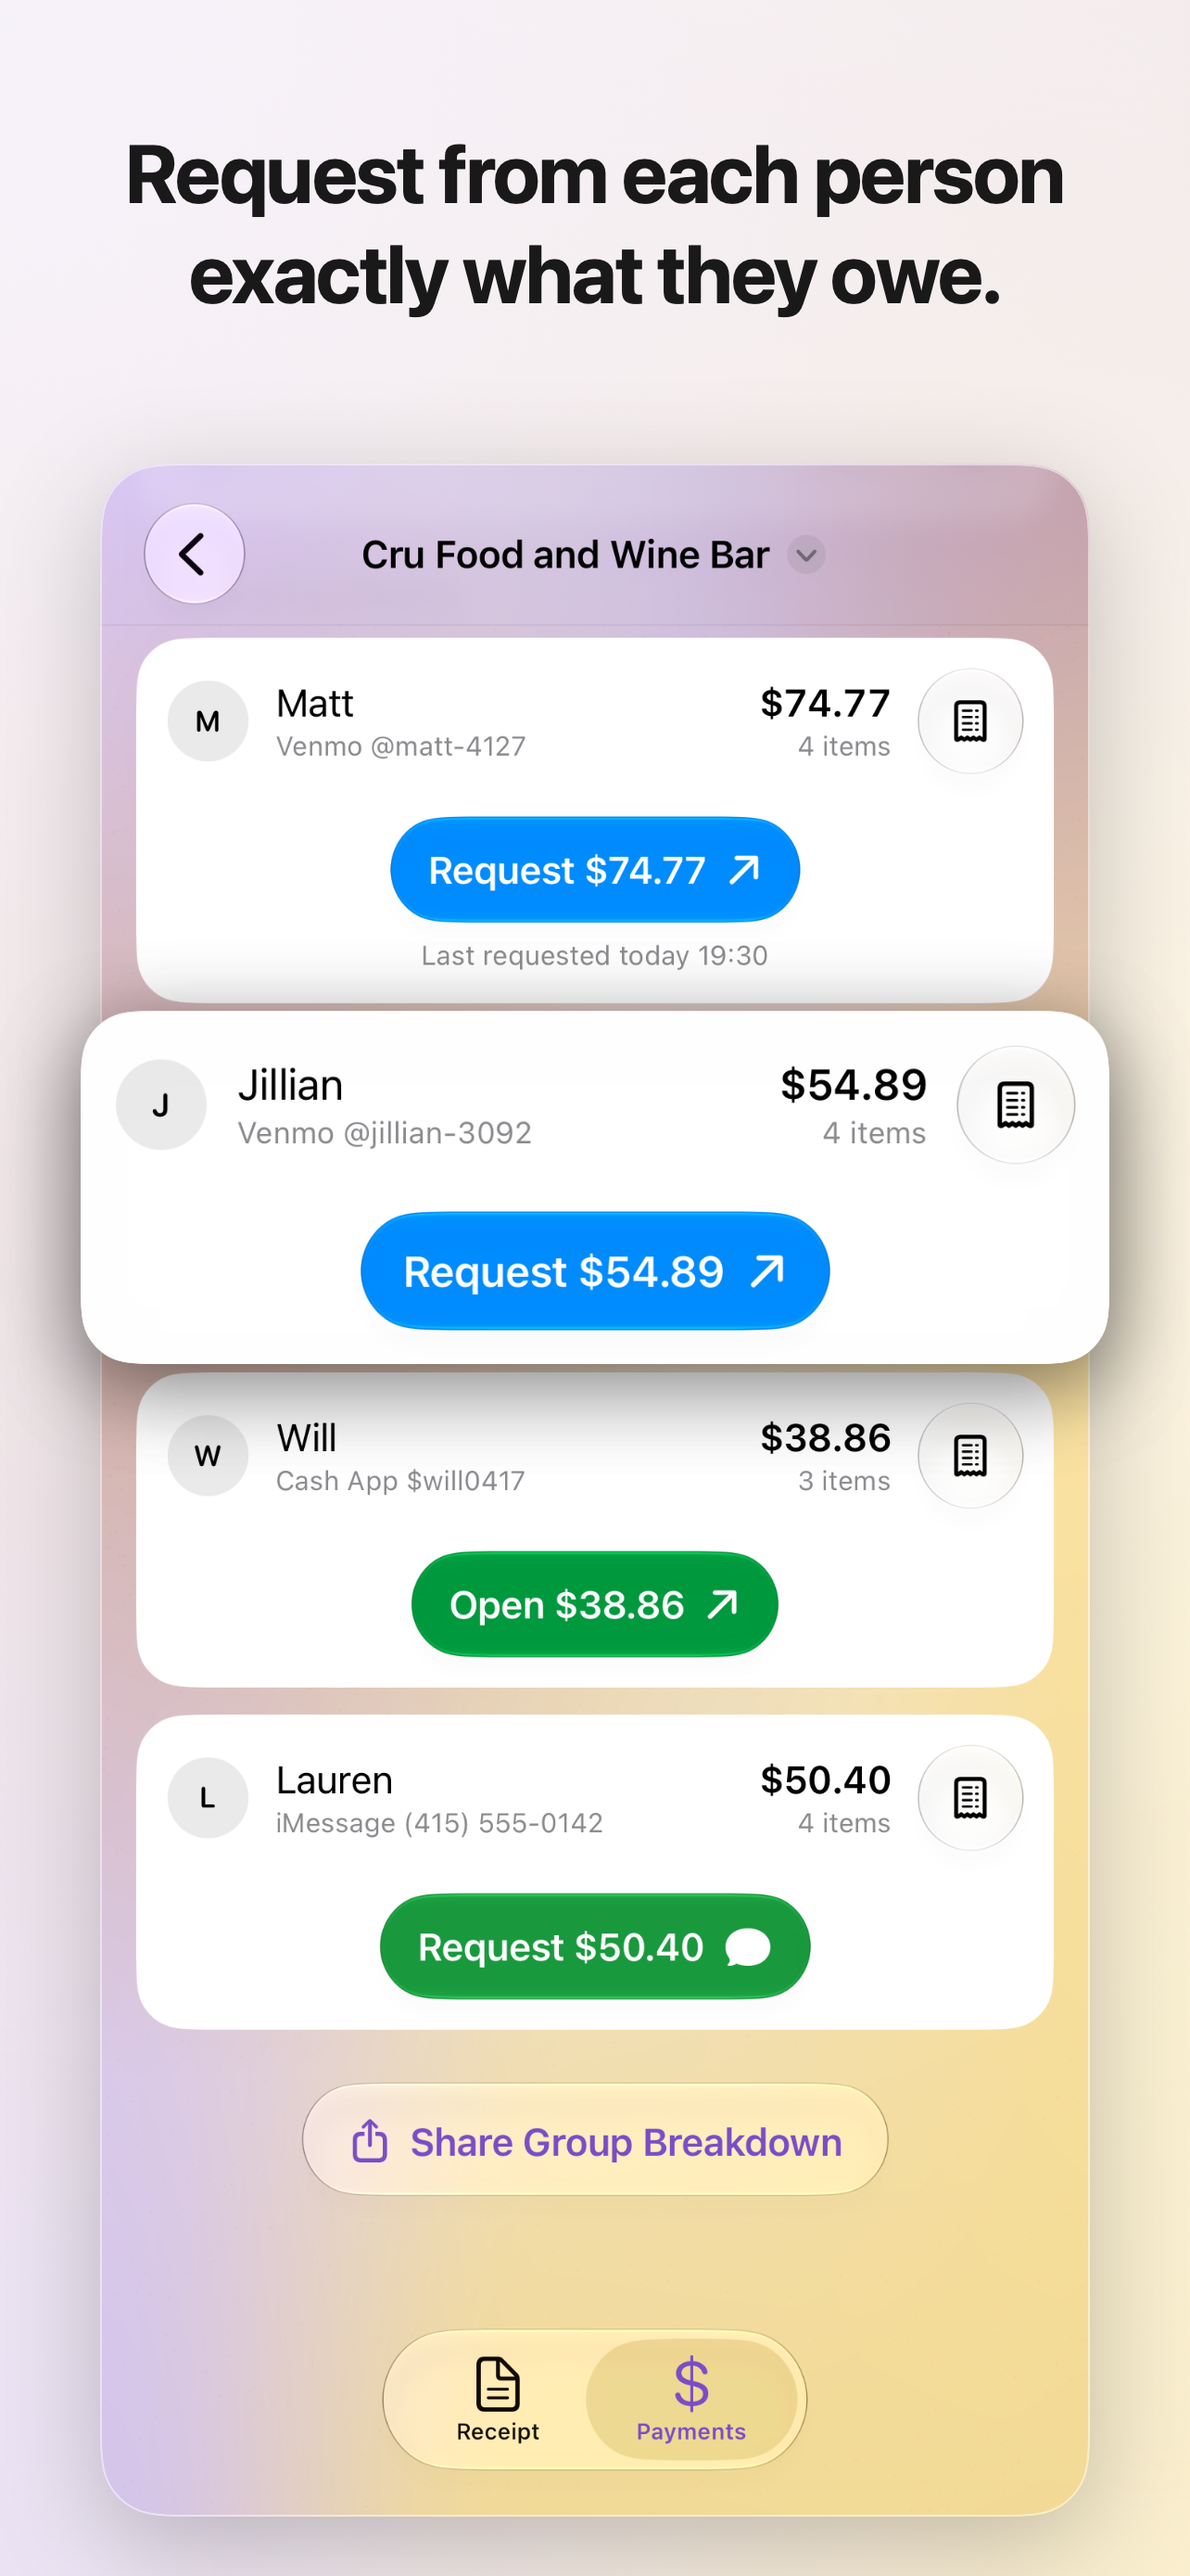
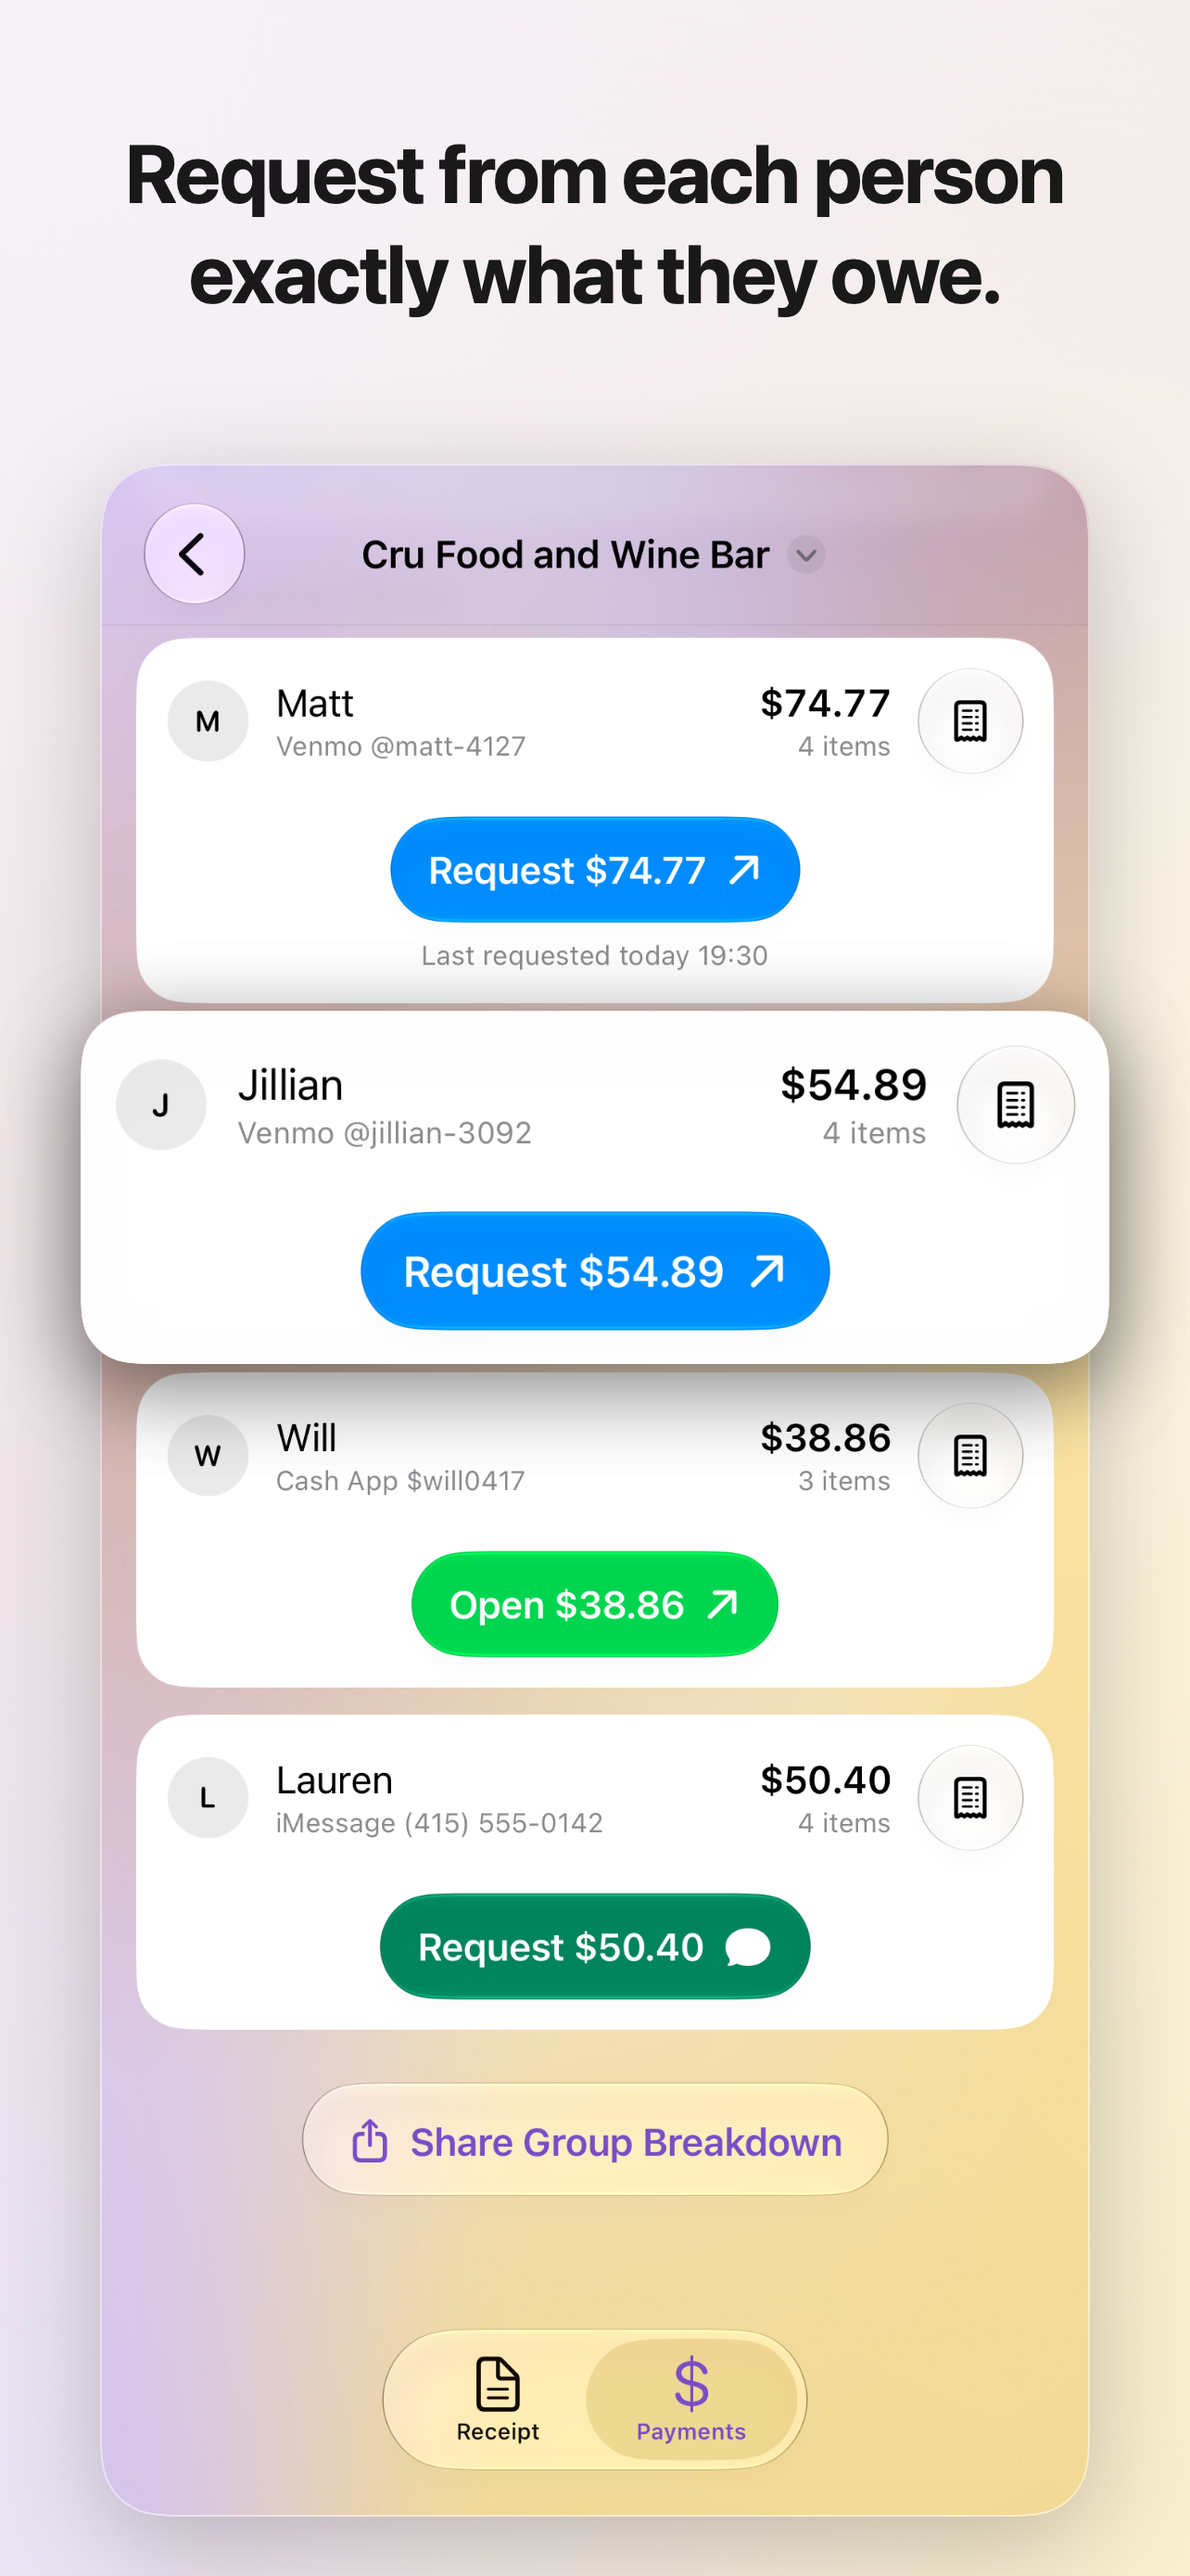
Items

Changed region(s): [[0.3115, 0.712, 0.6854, 0.7739], [0.3427, 0.5882, 0.6542, 0.6501]]

diff --git a/Tests/ReceiptSplitCalculatorTests.swift b/Tests/ReceiptSplitCalculatorTests.swift
@@ -18,6 +18,44 @@ final class ReceiptSplitCalculatorTests: XCTestCase {
     XCTAssertEqual(calculation.participantShares[0].items[0].fraction, 0.5)
   }
 
+  func testItemShareKeepsItemQuantity() throws {
+    let draft = makeDraft(
+      items: [ReceiptItem(description: "Taco", quantity: 3, lineTotal: 9)], total: 9)
+    let currentUserID = try XCTUnwrap(draft.participants.first?.id)
+    draft.items[0].participantIDs = [currentUserID]
+
+    let calculation = calculate(draft, .proportional)
+
+    XCTAssertEqual(calculation.participantShares[0].items[0].quantity, 3)
+  }
+
+  func testItemCountIncludesQuantities() throws {
+    let draft = makeDraft(
+      items: [
+        ReceiptItem(description: "Taco", quantity: 2, lineTotal: 6),
+        ReceiptItem(description: "Soda", quantity: 1, lineTotal: 2),
+      ],
+      total: 8)
+    let currentUserID = try XCTUnwrap(draft.participants.first?.id)
+    draft.items[0].participantIDs = [currentUserID]
+    draft.items[1].participantIDs = [currentUserID]
+
+    let calculation = calculate(draft, .proportional)
+
+    XCTAssertEqual(calculation.participantShares[0].itemCount, 3)
+  }
+
+  func testWeighedItemCountsAsOneItem() throws {
+    let draft = makeDraft(
+      items: [ReceiptItem(description: "Bananas", quantity: 1.42, lineTotal: 0.85)], total: 0.85)
+    let currentUserID = try XCTUnwrap(draft.participants.first?.id)
+    draft.items[0].participantIDs = [currentUserID]
+
+    let calculation = calculate(draft, .proportional)
+
+    XCTAssertEqual(calculation.participantShares[0].itemCount, 1)
+  }
+
   func testProportionalAdjustmentsFollowItemSubtotals() throws {
     let draft = try makeTwoPersonDraft()
 

diff --git a/Sources/Features/ReceiptFlow/ReceiptSplitCalculator.swift b/Sources/Features/ReceiptFlow/ReceiptSplitCalculator.swift
@@ -3,6 +3,7 @@ import Foundation
 struct ReceiptItemShare: Identifiable, Equatable {
   let itemID: ReceiptDraftItem.ID
   let description: String
+  let quantity: Double
   let fraction: Double
   let amount: Double
 
@@ -31,9 +32,19 @@ struct ReceiptParticipantShare: Identifiable, Equatable {
     itemSubtotal + adjustments.reduce(0) { $0 + $1.amount }
   }
 
+  /// How many items the share includes, counting each item's quantity. A quantity that isn't a
+  /// whole number, such as a weight, counts as one item.
+  var itemCount: Int {
+    items.reduce(0) { count, item in
+      let isWholeCount =
+        item.quantity.isFinite && item.quantity >= 1 && item.quantity.rounded() == item.quantity
+      return count + (isWholeCount ? Int(item.quantity) : 1)
+    }
+  }
+
   /// How many items the share includes, such as "3 items".
   var itemCountText: String {
-    String(inflecting: "^[\(items.count) item](inflect: true)")
+    String(inflecting: "^[\(itemCount) item](inflect: true)")
   }
 }
 
@@ -91,6 +102,7 @@ enum ReceiptSplitCalculator {
           ReceiptItemShare(
             itemID: item.id,
             description: item.description,
+            quantity: item.quantity,
             fraction: 1 / Double(assignedIDs.count),
             amount: ReceiptCurrency.amount(minorUnits: units, code: currency)))
         itemSubtotals[participantID, default: 0] += Double(lineUnits) / Double(assignedIDs.count)

diff --git a/Sources/Features/Sharing/ReceiptBreakdownCard.swift b/Sources/Features/Sharing/ReceiptBreakdownCard.swift
@@ -120,7 +120,7 @@ private struct PersonBreakdown: View {
       ForEach(share.items) { item in
         BreakdownLine(
           title: item.description,
-          detail: item.fraction < 1 ? "\(item.fraction.sharePercentText) share" : nil,
+          detail: detail(for: item),
           amount: item.amount,
           currency: breakdown.currency)
       }
@@ -142,6 +142,17 @@ private struct PersonBreakdown: View {
     PerforationLine()
     BreakdownTotal(
       title: "Total", amount: share.total, currency: breakdown.currency, accent: accent)
+  }
+
+  private func detail(for item: ReceiptItemShare) -> String? {
+    var parts: [String] = []
+    if item.quantity != 1 {
+      parts.append("Quantity \(item.quantity.formatted(.number))")
+    }
+    if item.fraction < 1 {
+      parts.append("\(item.fraction.sharePercentText) share")
+    }
+    return parts.isEmpty ? nil : parts.joined(separator: " · ")
   }
 }
 

diff --git a/Sources/Features/Payments/PaymentMethodStyle.swift b/Sources/Features/Payments/PaymentMethodStyle.swift
@@ -1,15 +1,16 @@
 import SwiftUI
 
 extension PaymentMethod {
-  /// A color that stays legible under white labels, for prominent tinted buttons.
+  /// A color for prominent tinted buttons under white labels. Cash App keeps its brand green, so
+  /// iMessage takes a deeper, bluer green to stay distinct from it.
   var prominentColor: Color {
     switch self {
     case .venmo:
       Color(red: 0, green: 140.0 / 255.0, blue: 1)
     case .cashApp:
-      Color(red: 0, green: 0.6, blue: 0.24)
+      Color(red: 0, green: 214.0 / 255.0, blue: 79.0 / 255.0)
     case .iMessage:
-      Color(red: 0.1, green: 0.6, blue: 0.24)
+      Color(red: 0, green: 0.52, blue: 0.36)
     case .none:
       .orange
     }

diff --git a/Tests/PreparedPaymentRequestTests.swift b/Tests/PreparedPaymentRequestTests.swift
@@ -130,7 +130,10 @@ final class PreparedPaymentRequestTests: XCTestCase {
     ReceiptParticipantShare(
       participant: ReceiptParticipant(
         id: UUID(), source: source, displayName: "Sam"),
-      items: [ReceiptItemShare(itemID: UUID(), description: "Pizza", fraction: 1, amount: 12.5)],
+      items: [
+        ReceiptItemShare(
+          itemID: UUID(), description: "Pizza", quantity: 1, fraction: 1, amount: 12.5)
+      ],
       adjustments: [])
   }
 }

diff --git a/Sources/Features/ReceiptFlow/ParticipantStrip.swift b/Sources/Features/ReceiptFlow/ParticipantStrip.swift
@@ -130,7 +130,7 @@ struct ParticipantStrip: View {
           .lineLimit(1)
         Text(amount, format: .currency(code: currency))
           .font(.caption2.monospacedDigit().weight(.semibold))
-          .foregroundStyle(.tint)
+          .foregroundStyle(.secondary)
           .contentTransition(.numericText(value: amount))
       }
       .frame(width: itemWidth)
